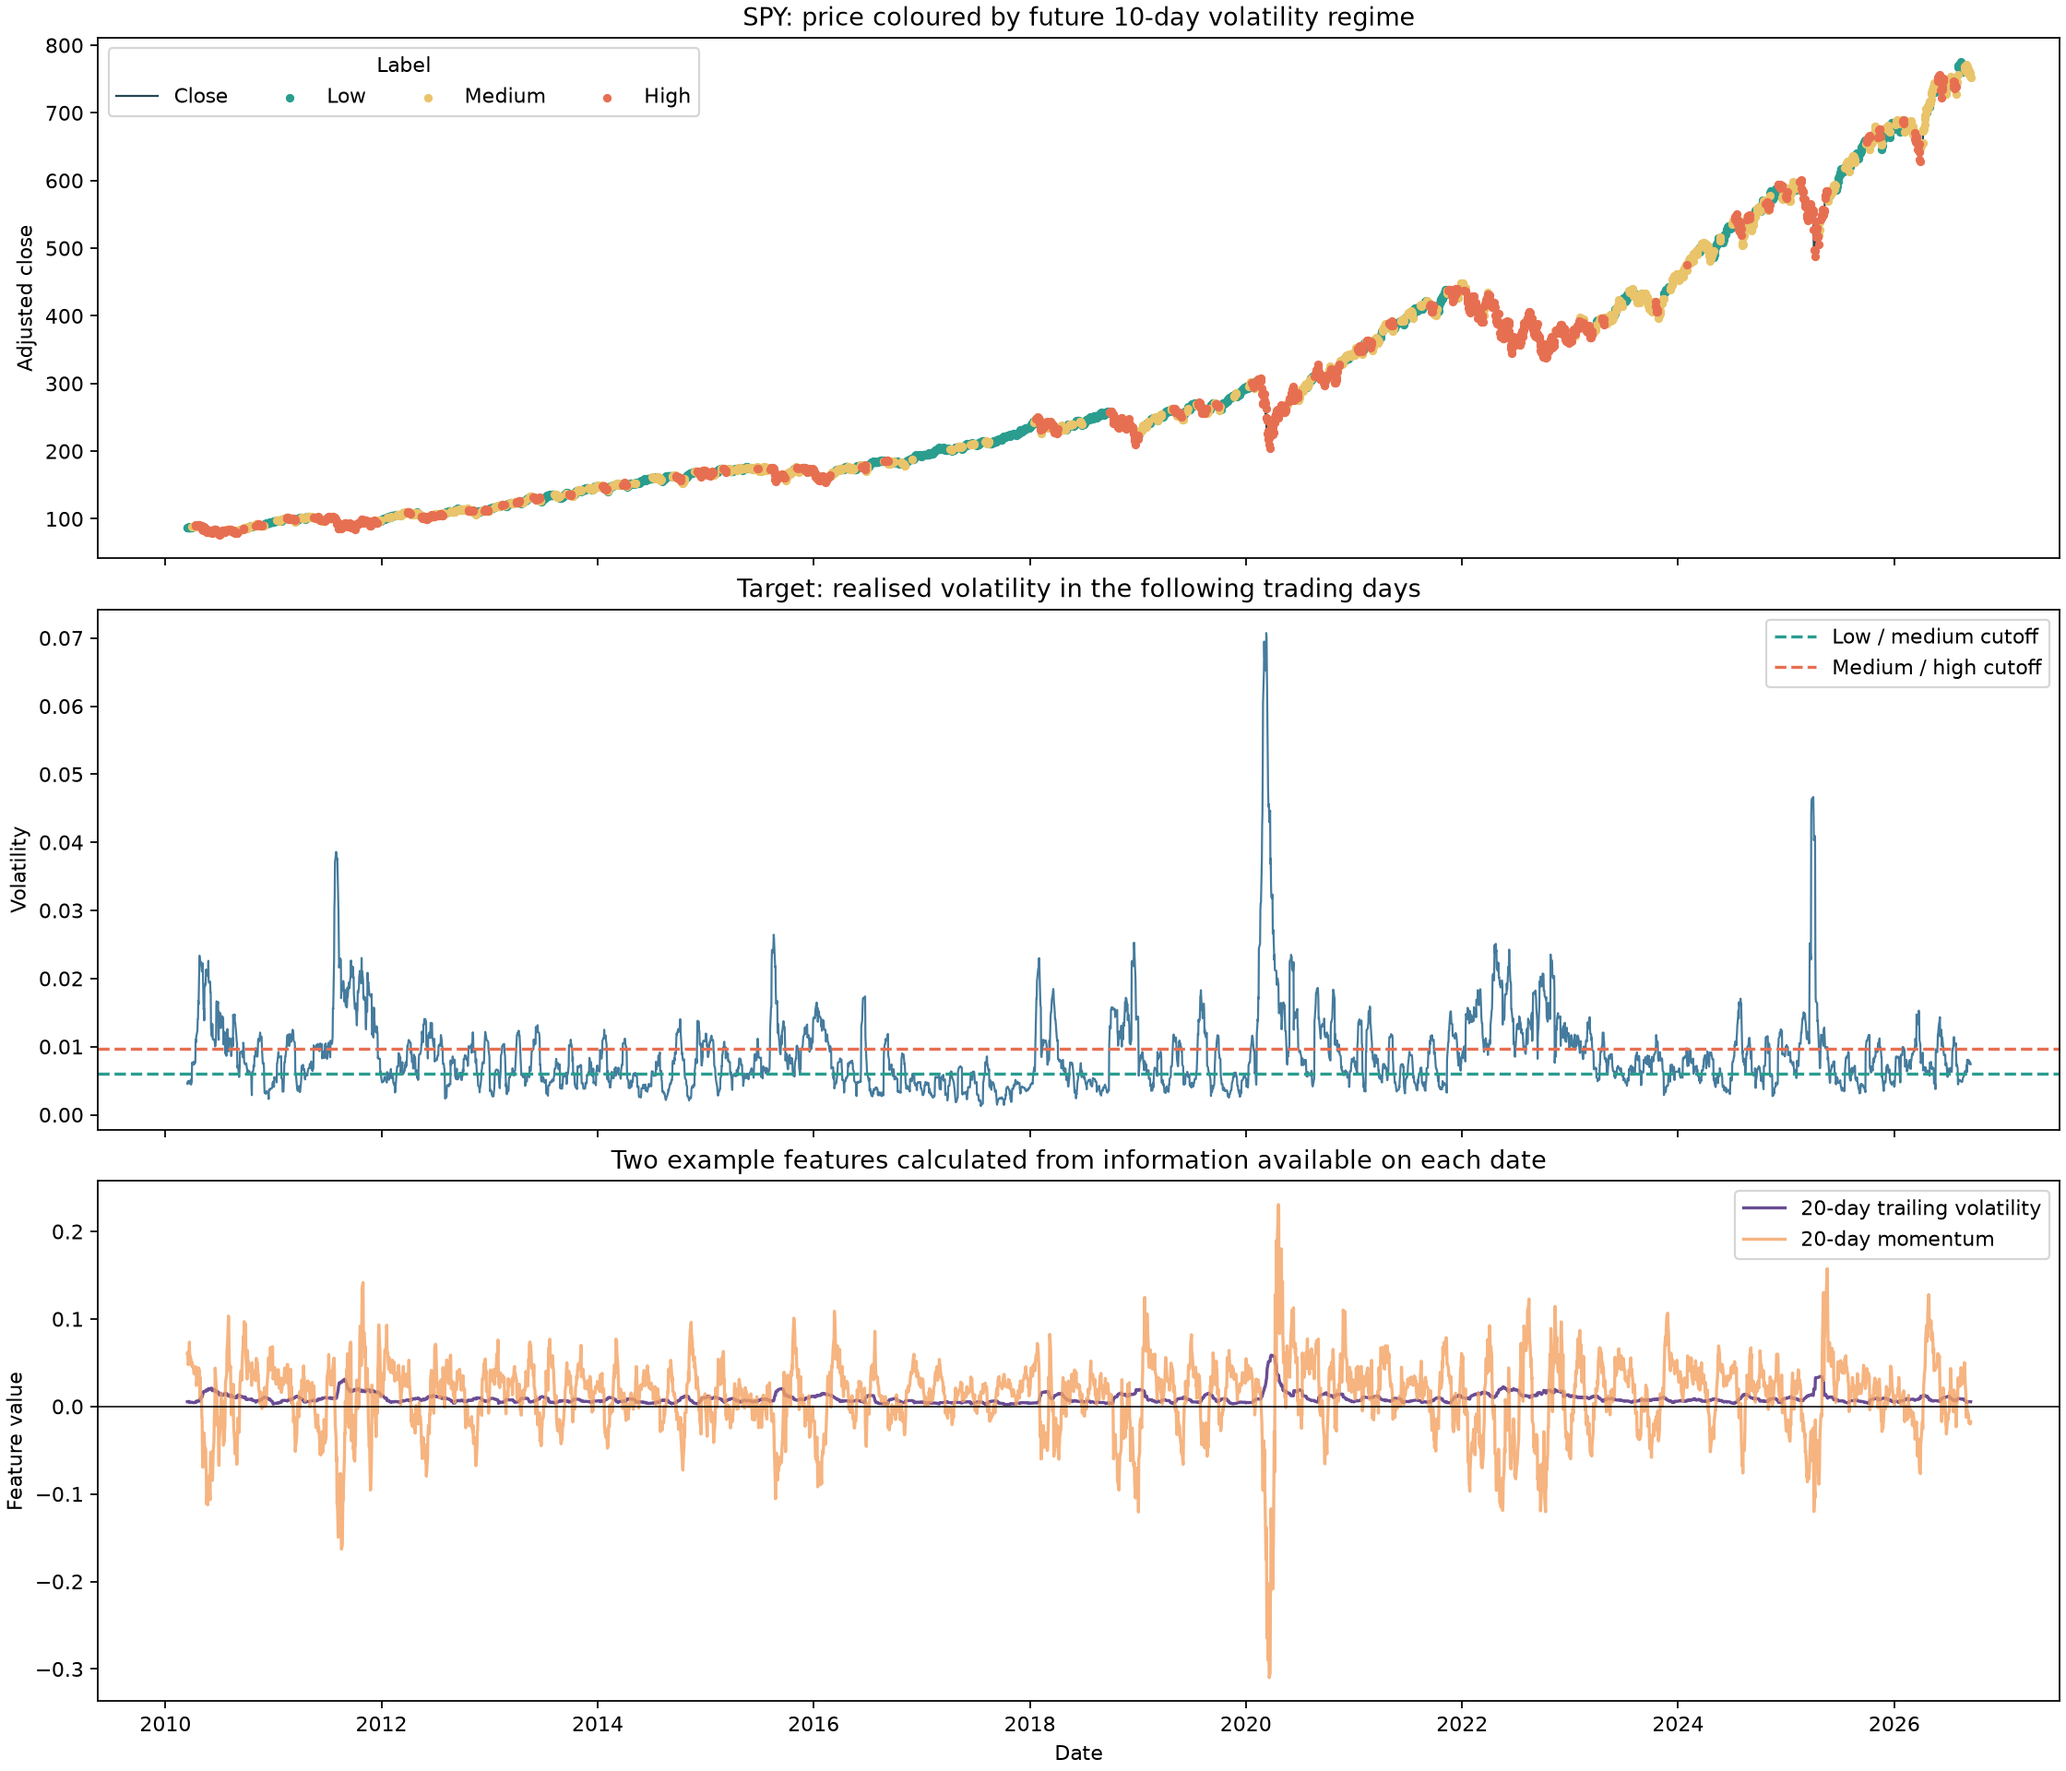
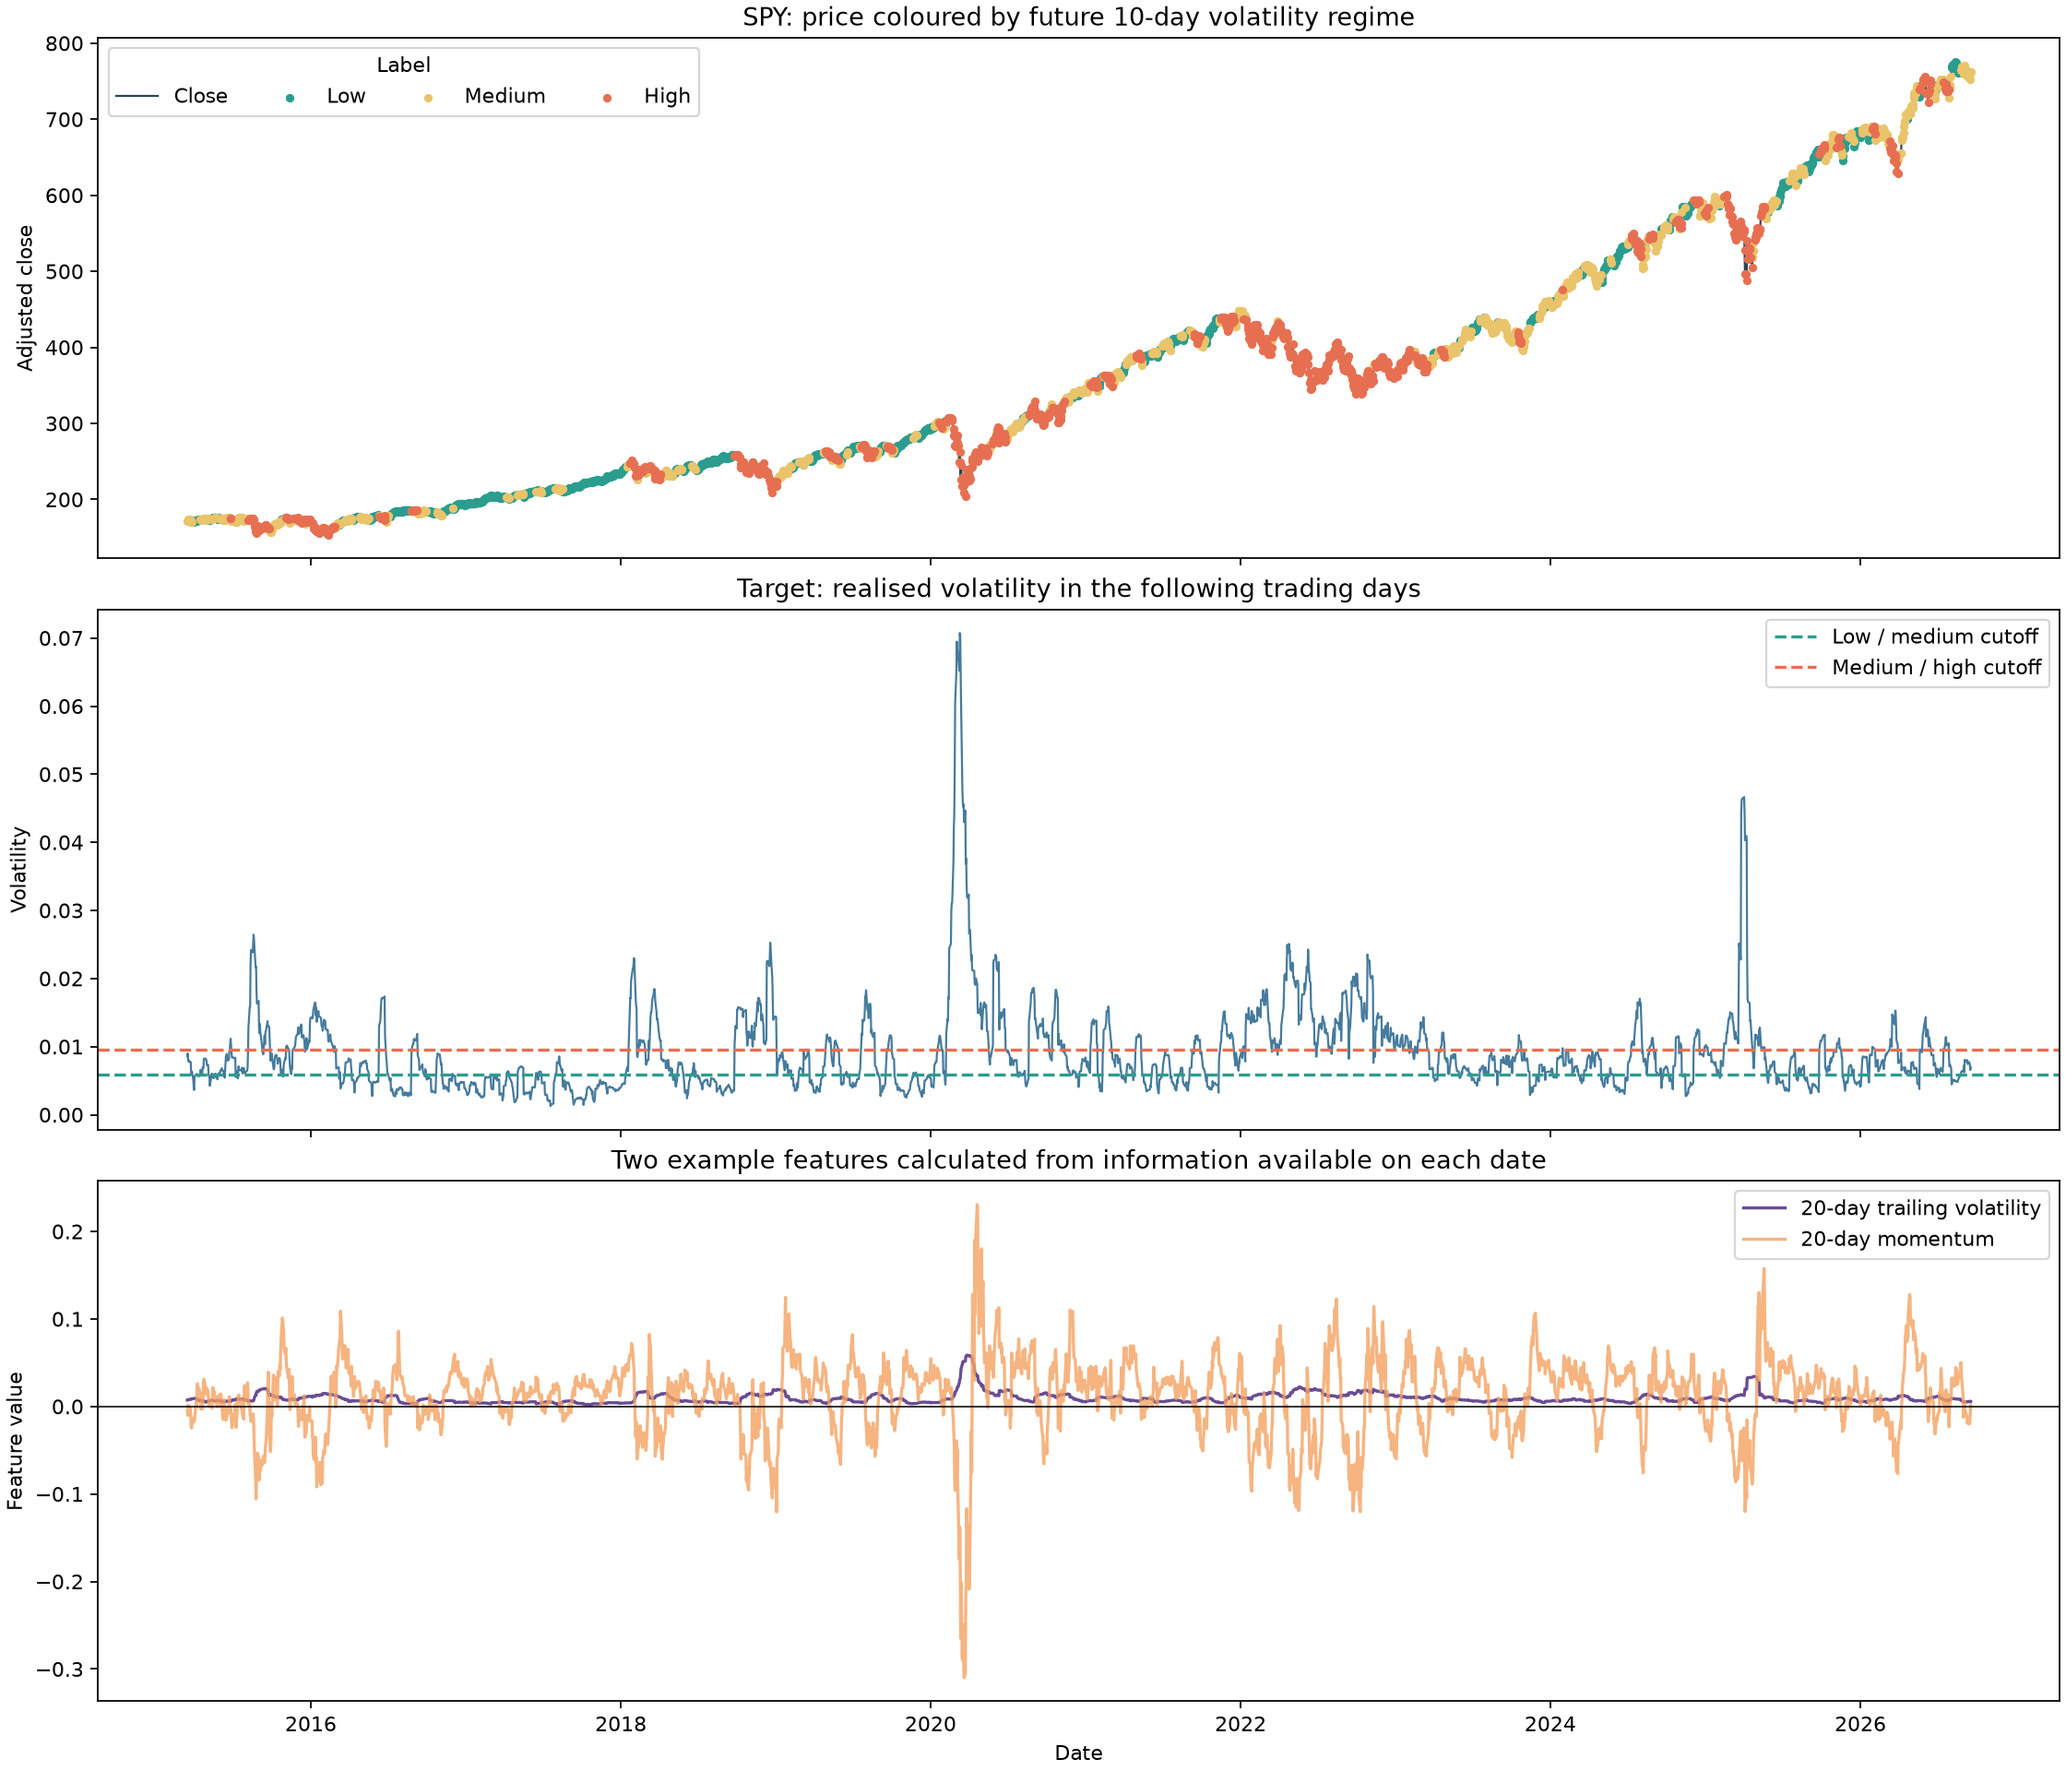
Side by side visualisation and knn

diff --git a/src/visualise.py b/src/visualise.py
@@ -7,43 +7,108 @@ Run from the project root, for example:
 from __future__ import annotations
 
 import argparse
+from datetime import datetime
 from pathlib import Path
 
 import matplotlib.pyplot as plt
+import numpy as np
 import pandas as pd
+from matplotlib.figure import Figure
+from sklearn.base import clone
+from sklearn.metrics import balanced_accuracy_score, confusion_matrix, f1_score
 
 from src.features import make_dataset
+from src.features import FEATURE_COLUMNS
+from src.models import MODELS
 
 REGIME_COLORS = {"low": "#2a9d8f", "medium": "#e9c46a", "high": "#e76f51"}
+REGIMES = list(REGIME_COLORS)
+TEST_FRACTION = 0.20
 
 
-def make_label_figure(dataset: pd.DataFrame, ticker: str, horizon: int) -> plt.Figure:
-    """Create a figure that makes target-label construction inspectable."""
-    figure, axes = plt.subplots(3, 1, figsize=(14, 12), sharex=True, layout="constrained")
+def make_evaluation_figure(dataset: pd.DataFrame, ticker: str, horizon: int) -> Figure:
+    """Compare models on a chronological hold-out set in one figure."""
+    split_index = int(len(dataset) * (1 - TEST_FRACTION))
+    train, test = dataset.iloc[:split_index], dataset.iloc[split_index:]
+    actual = test["regime"].astype(str)
+    predictions: dict[str, pd.Series] = {}
+    scores: dict[str, tuple[float, float]] = {}
 
-    axes[0].plot(dataset.index, dataset["Close"], color="#264653", linewidth=1, label="Close")
-    for regime, color in REGIME_COLORS.items():
-        rows = dataset[dataset["regime"].astype(str) == regime]
-        axes[0].scatter(rows.index, rows["Close"], s=10, color=color, label=regime.title(), zorder=2)
-    axes[0].set_title(f"{ticker}: price coloured by future {horizon}-day volatility regime")
-    axes[0].set_ylabel("Adjusted close")
-    axes[0].legend(title="Label", ncols=4)
+    for model_name, model in MODELS.items():
+        fitted_model = clone(model)
+        fitted_model.fit(train[FEATURE_COLUMNS], train["regime"])
+        predicted = pd.Series(fitted_model.predict(test[FEATURE_COLUMNS]), index=test.index).astype(str)
+        predictions[model_name] = predicted
+        scores[model_name] = (
+            float(balanced_accuracy_score(actual, predicted)),
+            float(f1_score(actual, predicted, average="macro")),
+        )
 
-    axes[1].plot(dataset.index, dataset["future_volatility"], color="#457b9d", linewidth=1)
-    low_cut, high_cut = dataset["future_volatility"].quantile([1 / 3, 2 / 3])
-    axes[1].axhline(low_cut, color=REGIME_COLORS["low"], linestyle="--", label="Low / medium cutoff")
-    axes[1].axhline(high_cut, color=REGIME_COLORS["high"], linestyle="--", label="Medium / high cutoff")
-    axes[1].set_title("Target: realised volatility in the following trading days")
-    axes[1].set_ylabel("Volatility")
-    axes[1].legend()
+    model_names = list(predictions)
+    figure = plt.figure(figsize=(16, 17), layout="constrained")
+    timeline_rows = 1 + len(model_names)
+    grid = figure.add_gridspec(
+        2 + timeline_rows,
+        max(3, len(model_names)),
+        height_ratios=[1.1, 2.1] + [1.3] * timeline_rows,
+    )
 
-    axes[2].plot(dataset.index, dataset["volatility_20d"], label="20-day trailing volatility", color="#6a4c93")
-    axes[2].plot(dataset.index, dataset["momentum_20d"], label="20-day momentum", color="#f4a261", alpha=0.8)
-    axes[2].axhline(0, color="black", linewidth=0.7)
-    axes[2].set_title("Two example features calculated from information available on each date")
-    axes[2].set_ylabel("Feature value")
-    axes[2].set_xlabel("Date")
-    axes[2].legend()
+    metrics_axis = figure.add_subplot(grid[0, :])
+    y_positions = np.arange(len(model_names))
+    bar_height = 0.35
+    metrics_axis.barh(y_positions - bar_height / 2, [scores[name][0] for name in model_names], height=bar_height, label="Balanced accuracy", color="#264653")
+    metrics_axis.barh(y_positions + bar_height / 2, [scores[name][1] for name in model_names], height=bar_height, label="Macro F1", color="#e76f51")
+    metrics_axis.set_yticks(y_positions, model_names)
+    metrics_axis.set_xlim(0, 1)
+    metrics_axis.set_xlabel("Score")
+    metrics_axis.set_title(f"{ticker}: model performance on chronological test set")
+    metrics_axis.legend(loc="lower right")
+    metrics_axis.grid(axis="x", alpha=0.25)
+
+    confusion_axes = [figure.add_subplot(grid[1, column]) for column in range(len(model_names))]
+    for axis, model_name in zip(confusion_axes, model_names):
+        matrix = confusion_matrix(actual, predictions[model_name], labels=REGIMES)
+        axis.imshow(matrix, cmap="Blues", vmin=0, vmax=max(1, matrix.max()))
+        for row in range(len(REGIMES)):
+            for column in range(len(REGIMES)):
+                axis.text(column, row, matrix[row, column], ha="center", va="center")
+        axis.set_title(model_name)
+        axis.set_xticks(range(len(REGIMES)), [regime.title() for regime in REGIMES])
+        axis.set_yticks(range(len(REGIMES)), [regime.title() for regime in REGIMES])
+        axis.set_xlabel("Predicted", fontweight="bold")
+        axis.set_ylabel("Actual", fontweight="bold")
+    figure.text(0.05, 0.65, "Confusion matrices", ha="center", va="bottom", fontsize=14, fontweight="bold", rotation=90)
+
+    timeline_names = ["Actual"] + model_names
+    timeline_values = {"Actual": actual, **predictions}
+    timeline_axes = []
+    for row, name in enumerate(timeline_names, start=2):
+        timeline_axis = figure.add_subplot(
+            grid[row, :],
+            sharex=timeline_axes[0] if timeline_axes else None,
+        )
+        timeline_axes.append(timeline_axis)
+        timeline_axis.plot(test.index, test["Close"], color="#264653", linewidth=1, alpha=0.75)
+        values = timeline_values[name]
+        for regime, color in REGIME_COLORS.items():
+            regime_rows = test[values == regime]
+            timeline_axis.scatter(
+                regime_rows.index,
+                regime_rows["Close"],
+                s=12,
+                color=color,
+                label=regime.title(),
+                zorder=2,
+            )
+        timeline_axis.set_ylabel(name)
+        timeline_axis.grid(axis="x", alpha=0.25)
+        timeline_axis.legend(loc="upper left", ncols=3, fontsize="small")
+    timeline_axes[0].set_title(
+        f"Index price and regimes across the test period "
+        f"({test.index.min().date()} to {test.index.max().date()})"
+    )
+    timeline_axes[-1].set_xlabel("Date")
+    figure.suptitle(f"{ticker} volatility-regime model evaluation ({horizon}-day horizon)", fontsize=16)
     return figure
 
 
@@ -58,8 +123,9 @@ def main() -> None:
     args = parser.parse_args()
 
     dataset = make_dataset(download_prices(args.ticker, args.start), horizon=args.horizon)
-    figure = make_label_figure(dataset, args.ticker, args.horizon)
-    output_path = Path("outputs") / f"label_exploration_{args.ticker.replace('^', '')}.png"
+    figure = make_evaluation_figure(dataset, args.ticker, args.horizon)
+    timestamp = datetime.now().strftime("%Y%m%d_%H%M%S_%f")
+    output_path = Path("outputs") / f"model_evaluation_{args.ticker.replace('^', '')}_{timestamp}.png"
     output_path.parent.mkdir(exist_ok=True)
     figure.savefig(output_path, dpi=160)
     print(f"Saved plot to {output_path}")

diff --git a/src/train.py b/src/train.py
@@ -1,25 +1,14 @@
 """Train and evaluate a chronological baseline classifier."""
 
-from sklearn.linear_model import LogisticRegression
 from sklearn.metrics import classification_report
-from sklearn.pipeline import Pipeline
-from sklearn.dummy import DummyClassifier
-from sklearn.ensemble import RandomForestClassifier
-from sklearn.preprocessing import StandardScaler
 
 from src.data import download_prices
 from src.features import FEATURE_COLUMNS, make_dataset
+from src.models import MODELS
 
 TICKER = "SPY"
 START_DATE = "2005-01-01"
 TEST_FRACTION = 0.20
-
-MODELS = {
-    "DummyClassifier": DummyClassifier(strategy="most_frequent"),
-    "LogisticRegression": Pipeline([("scale", StandardScaler()), ("classifier", LogisticRegression(max_iter=5_000, class_weight="balanced"))]),
-    "RandomForestClassifier": Pipeline([("scale", StandardScaler()), ("classifier", RandomForestClassifier(n_estimators=100, random_state=42))])
-}
-
 
 def main() -> None:
     prices = download_prices(TICKER, START_DATE)
@@ -33,7 +22,7 @@ def main() -> None:
         print(f"Ticker: {TICKER}")
         print(f"Training: {train.index.min().date()} to {train.index.max().date()}")
         print(f"Test: {test.index.min().date()} to {test.index.max().date()}\n")
-        print(classification_report(test["regime"], predictions, digits=3))
+        print(classification_report(test["regime"], predictions, digits=3, zero_division=0))
 
 
 if __name__ == "__main__":

diff --git a/src/models.py b/src/models.py
@@ -1,0 +1,21 @@
+"""Model definitions used by training and evaluation scripts."""
+
+from sklearn.dummy import DummyClassifier
+from sklearn.ensemble import RandomForestClassifier
+from sklearn.linear_model import LogisticRegression
+from sklearn.neighbors import KNeighborsClassifier
+from sklearn.pipeline import Pipeline
+from sklearn.preprocessing import StandardScaler
+
+MODELS = {
+    "DummyClassifier": DummyClassifier(strategy="most_frequent"),
+    "LogisticRegression": Pipeline([
+        ("scale", StandardScaler()),
+        ("classifier", LogisticRegression(max_iter=5_000, class_weight="balanced")),
+    ]),
+    "RandomForestClassifier": RandomForestClassifier(n_estimators=100, random_state=42),
+    "KNeighborsClassifier": Pipeline([
+        ("scale", StandardScaler()),
+        ("classifier", KNeighborsClassifier(n_neighbors=5)),
+    ]),
+}
